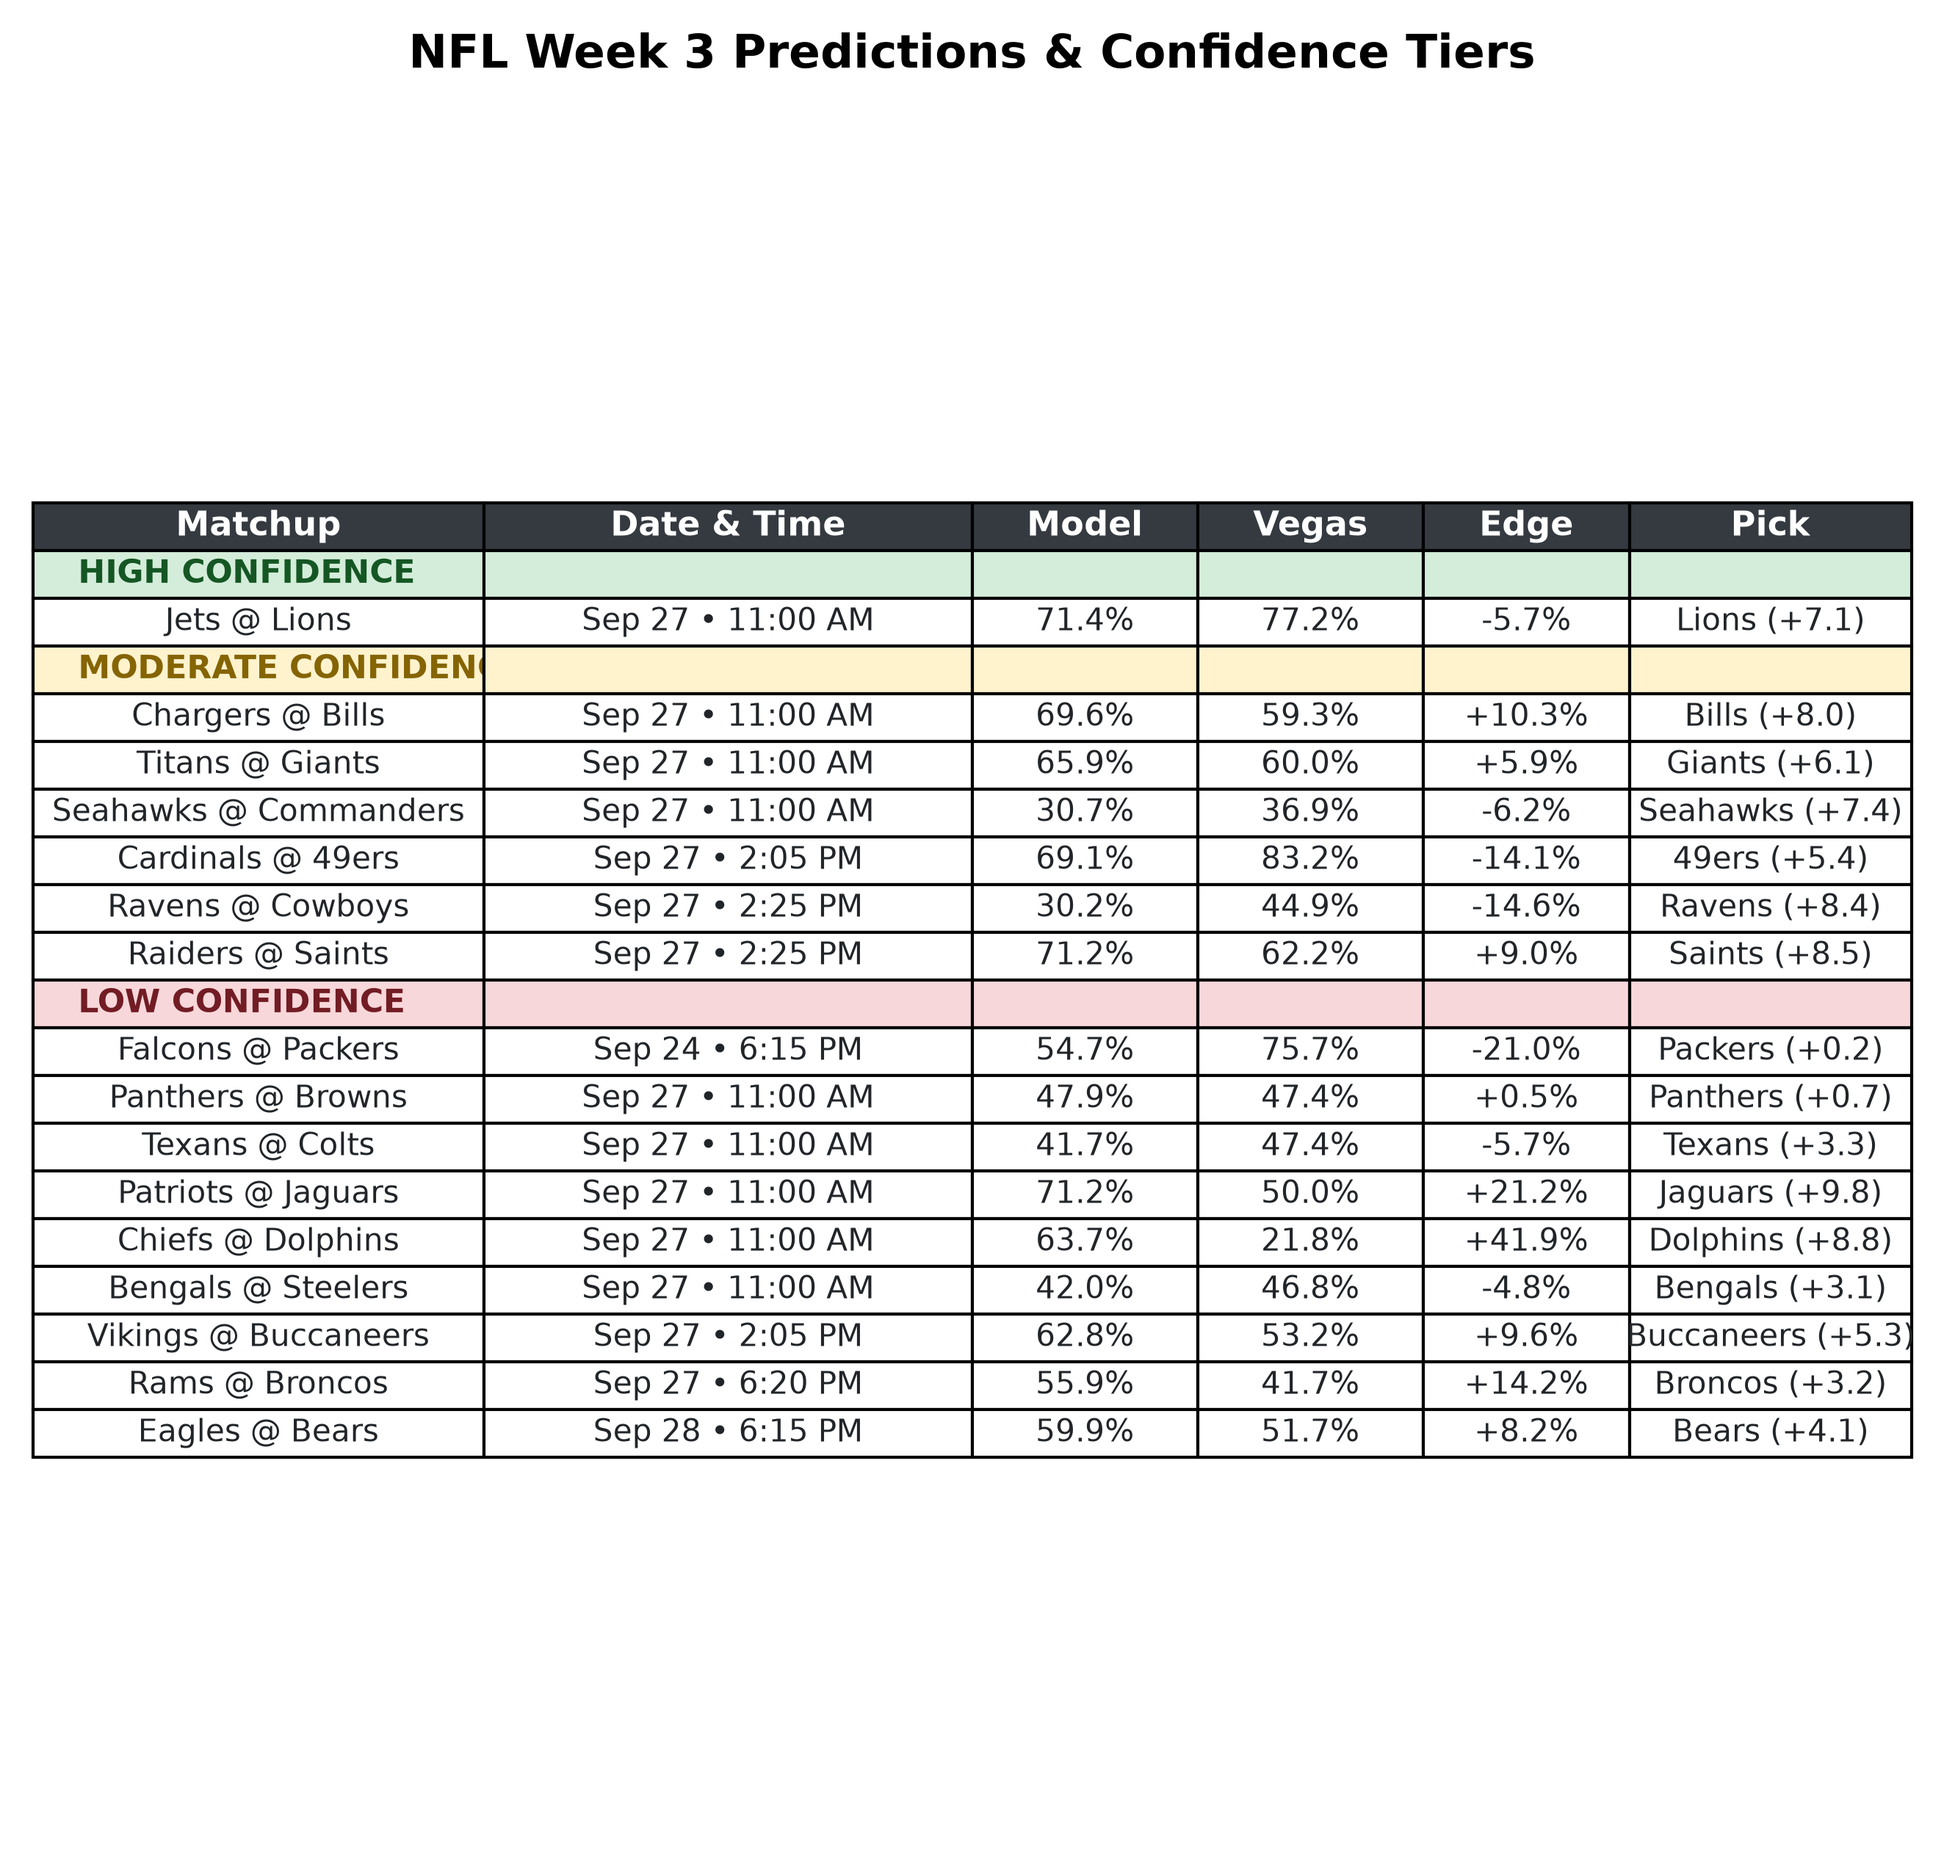
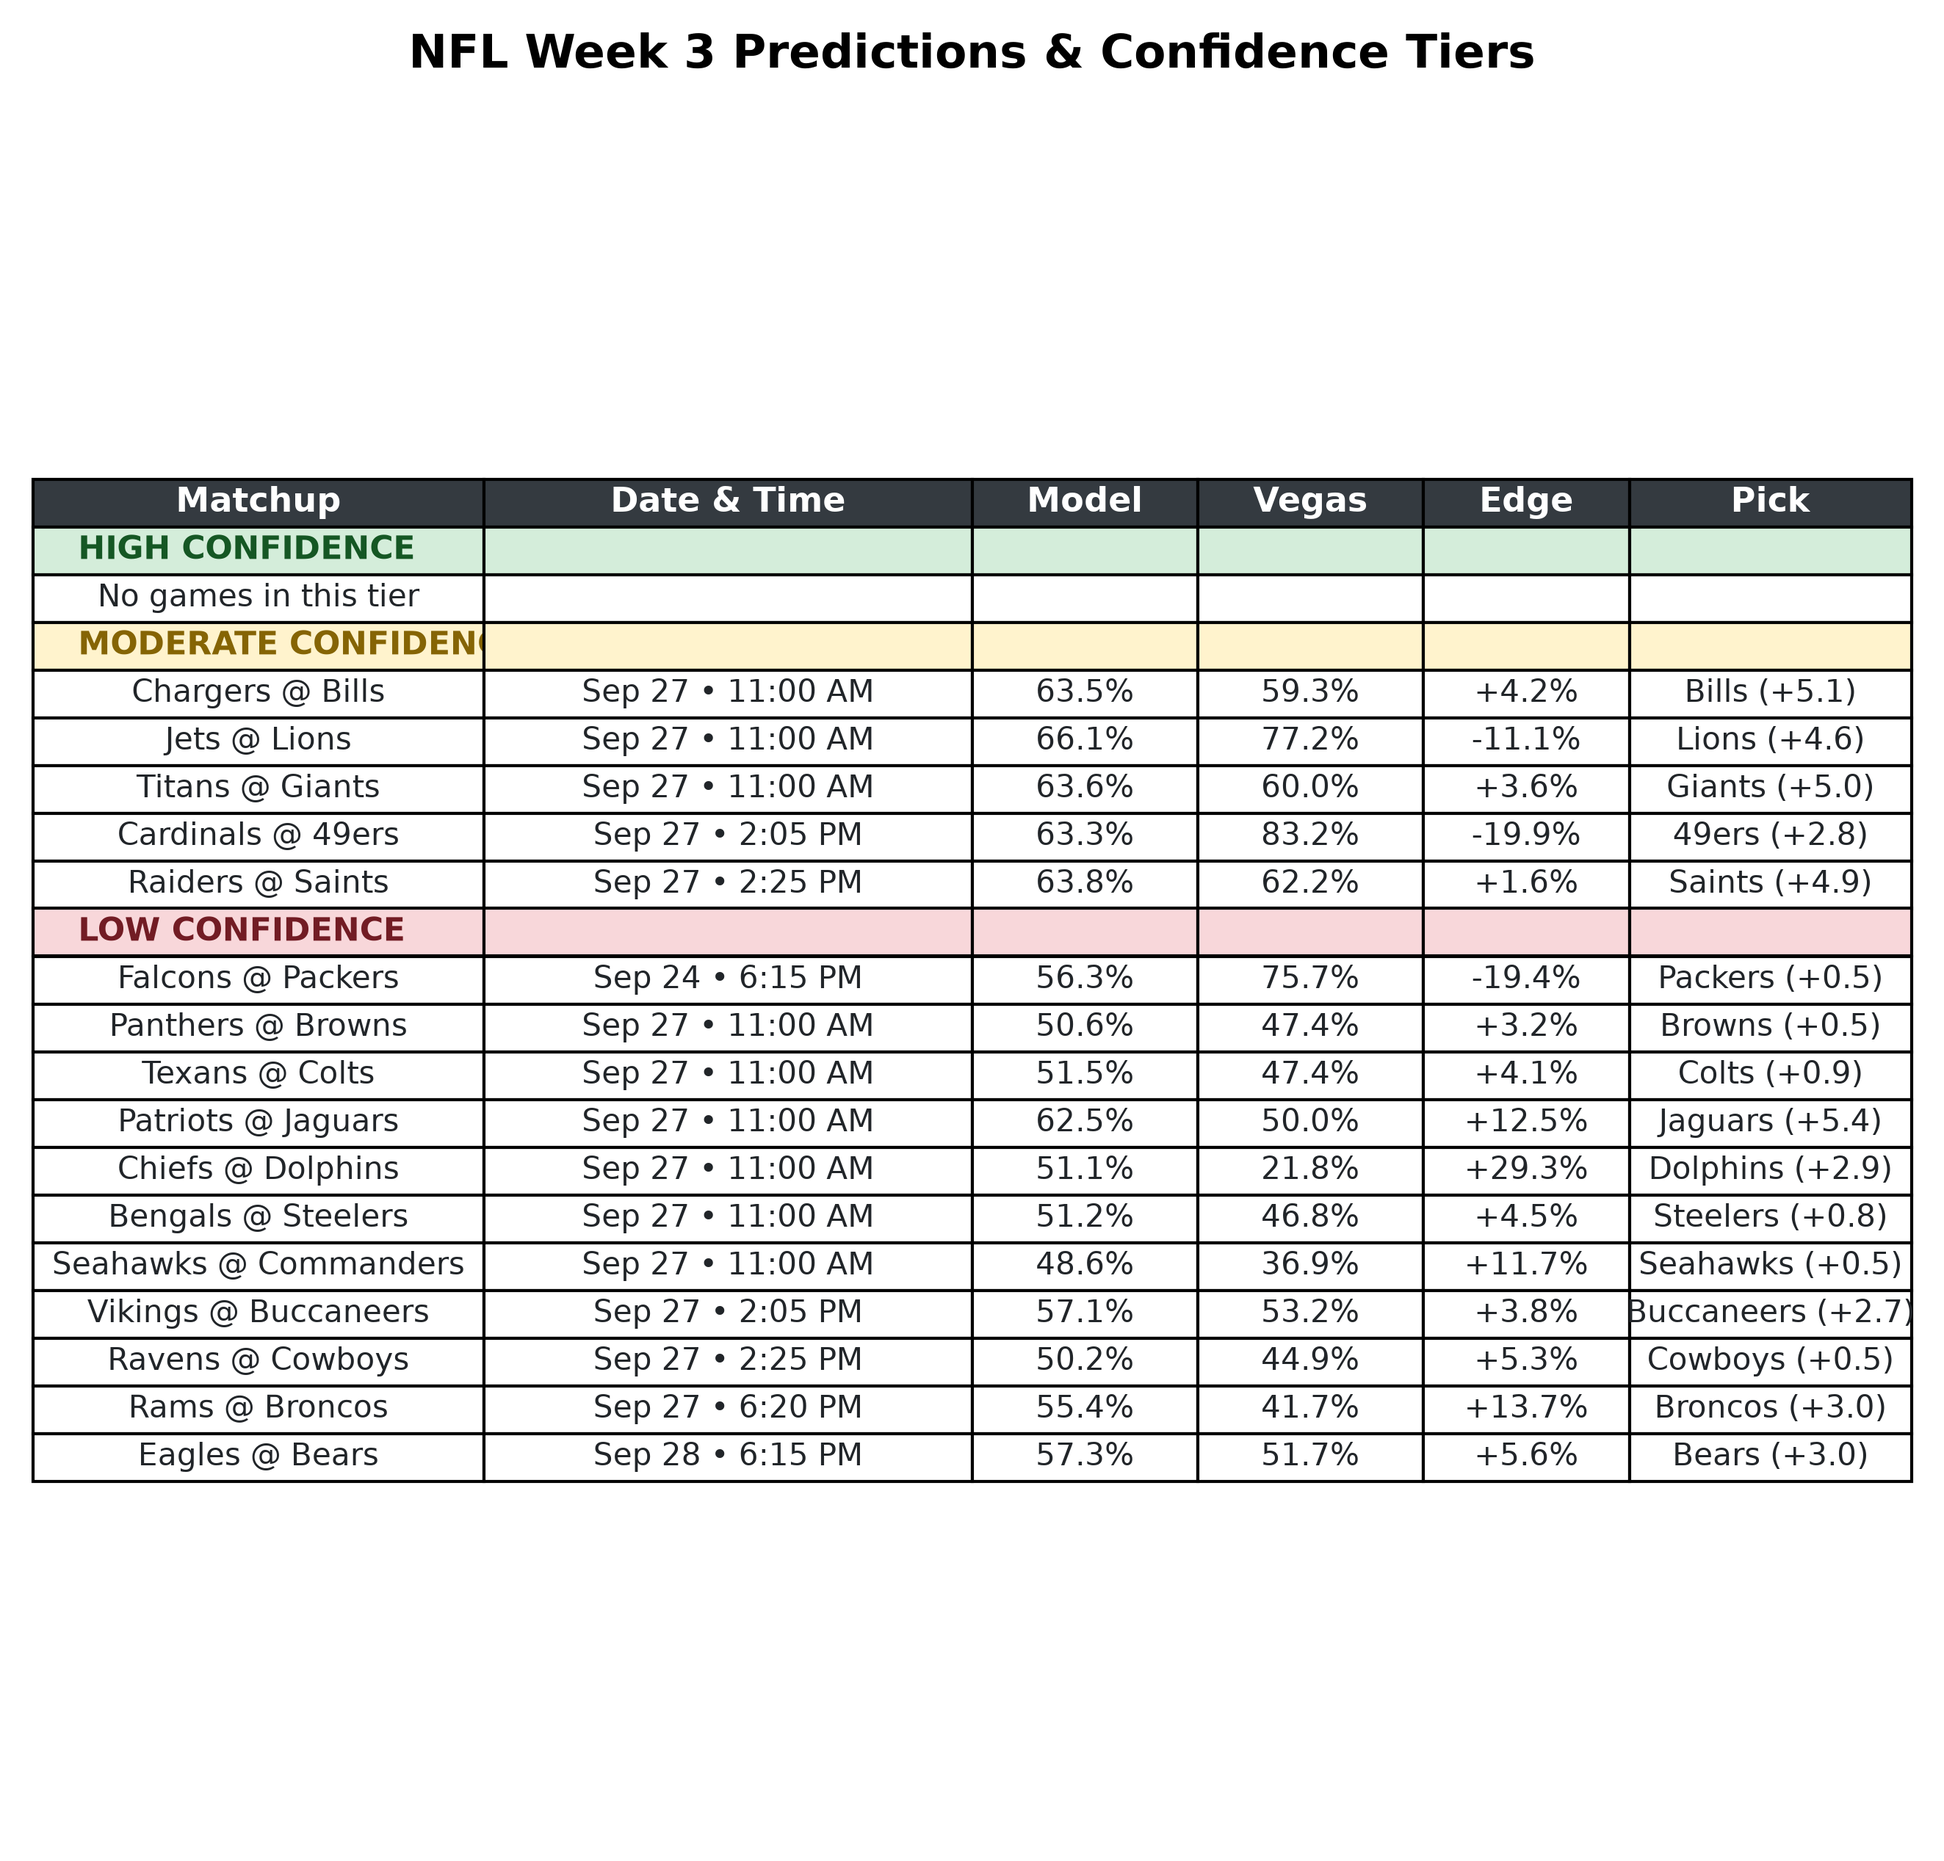
convert to utc timezone

Changed region(s): [[0.0, 0.2493, 0.9913, 0.8103]]

diff --git a/src/07_predict_weekly_slate.py b/src/07_predict_weekly_slate.py
@@ -1,4 +1,5 @@
 from datetime import datetime, timezone
+from zoneinfo import ZoneInfo
 import json
 import os
 import nflreadpy as nfl
@@ -21,6 +22,26 @@ TEAM_NAMES = {
 def get_full_name(abbr):
     return TEAM_NAMES.get(abbr, abbr)
 
+def format_gametime_utc(gameday_val, gametime_str):
+    if not gametime_str or gametime_str == 'TBD' or pd.isna(gametime_str) or pd.isna(gameday_val):
+        return 'TBD'
+    try:
+        # Extract clean YYYY-MM-DD regardless of whether gameday is Timestamp or string
+        date_str = pd.to_datetime(gameday_val).strftime('%Y-%m-%d')
+        time_str = str(gametime_str).strip()[:5]
+        
+        # Parse as Eastern Time
+        dt_str = f"{date_str} {time_str}"
+        et_zone = ZoneInfo("America/New_York")
+        local_dt = datetime.strptime(dt_str, "%Y-%m-%d %H:%M").replace(tzinfo=et_zone)
+        
+        # Convert to ISO UTC
+        return local_dt.astimezone(timezone.utc).strftime('%Y-%m-%dT%H:%M:%SZ')
+    except Exception:
+        return str(gametime_str)
+
+"""
+--- COMMENTED OUT: PREVIOUS MOUNTAIN TIME CONVERTER ---
 def format_gametime(gametime_str):
     if not gametime_str or gametime_str == 'TBD' or pd.isna(gametime_str):
         return 'TBD'
@@ -34,6 +55,7 @@ def format_gametime(gametime_str):
         return dt_temp.strftime('%I:%M %p').lstrip('0')
     except ValueError:
         return str(gametime_str)
+"""
 
 def get_team_latest_stats(df, team):
     team_games = df[(df['home_team'] == team) | (df['away_team'] == team)].copy()
@@ -142,8 +164,9 @@ if __name__ == '__main__':
         away_team_abbr = game['away_team']
         game_id = game['game_id']
 
-        gameday = str(game.get('gameday', 'TBD')).split('T')[0] if pd.notna(game.get('gameday')) else 'TBD'
-        formatted_time = format_gametime(game.get('gametime', 'TBD'))
+        gameday = pd.to_datetime(game['gameday']).strftime('%Y-%m-%d') if pd.notna(game.get('gameday')) else 'TBD'
+        formatted_time = format_gametime_utc(gameday, game.get('gametime', 'TBD'))
+        # formatted_time = format_gametime(game.get('gametime', 'TBD'))
 
         # Fetch Live Odds if available
         home_ml, away_ml = -110, -110 
@@ -239,7 +262,8 @@ if __name__ == '__main__':
             home = g['home_team']['name']
             p = g['prediction']
             pick_display = f"{p['pick_name']} (by {p['projected_margin']} pts)"
-            print(f'  [{g["gametime"]:<10}] {away:>11} @ {home:<11} | Model: {p["model_home_win_prob"]*100:>4.1f}% | Vegas: {p["vegas_home_implied_prob"]*100:>4.1f}% | Edge: {p["edge"]*100:>+5.1f}% | Pick: {pick_display:<25} | Tier: {p["confidence_tier"]:<8}')
+            # print(f'  [{g["gametime"]:<10}] {away:>11} @ {home:<11} | Model: {p["model_home_win_prob"]*100:>4.1f}% | Vegas: {p["vegas_home_implied_prob"]*100:>4.1f}% | Edge: {p["edge"]*100:>+5.1f}% | Pick: {pick_display:<25} | Tier: {p["confidence_tier"]:<8}')
+            print(f'  [{g["gametime"][-9:-1]:<10}] {away:>11} @ {home:<11} | Model: {p["model_home_win_prob"]*100:>4.1f}% | Vegas: {p["vegas_home_implied_prob"]*100:>4.1f}% | Edge: {p["edge"]*100:>+5.1f}% | Pick: {pick_display:<25} | Tier: {p["confidence_tier"]:<8}')
 
     print('\n========================================================================================================_')
 

diff --git a/src/render_prediction_table.py b/src/render_prediction_table.py
@@ -1,4 +1,5 @@
-from datetime import datetime
+from datetime import datetime, timezone
+from zoneinfo import ZoneInfo
 import json
 import os
 import re
@@ -60,21 +61,48 @@ high_tier = []
 mod_tier = []
 low_tier = []
 
-for gameday, games in games_by_date.items():
-  clean_date_str = str(gameday).split('T')[0].split(' ')[0]
-  try:
-    parsed_date = datetime.strptime(clean_date_str, '%Y-%m-%d')
-    formatted_date_str = parsed_date.strftime('%b %d')
-  except ValueError:
-    formatted_date_str = clean_date_str
+# Using America/Denver to represent Mountain Time (your timezone when exported)
+local_tz = ZoneInfo("America/Denver")
 
+# --- ALTERNATIVE TIMEZONES (Uncomment the one you need) ---
+# local_tz = ZoneInfo("America/New_York")      # Eastern Time (ET)
+# local_tz = ZoneInfo("America/Chicago")       # Central Time (CT)
+# local_tz = ZoneInfo("America/Los_Angeles")   # Pacific Time (PT)
+# local_tz = ZoneInfo("UTC")                   # Coordinated Universal Time (UTC)
+# local_tz = ZoneInfo("Europe/London")         # British Summer Time / Greenwich Mean Time (BST/GMT)
+# ----------------------------------------------------------
+
+for gameday, games in games_by_date.items():
   for g in games:
     away_full = g['away_team']['name']
     home_full = g['home_team']['name']
     matchup_str = f'{away_full} @ {home_full}'
     
     raw_time = g['gametime']
-    datetime_display = f'{formatted_date_str} • {raw_time}'
+    
+    # Check if raw_time is a valid ISO 8601 UTC string (ends with 'Z')
+    if raw_time and raw_time.endswith('Z'):
+        try:
+            # Parse the UTC time
+            dt_utc = datetime.strptime(raw_time, '%Y-%m-%dT%H:%M:%SZ').replace(tzinfo=timezone.utc)
+            # Convert to local Mountain Time
+            dt_local = dt_utc.astimezone(local_tz)
+            
+            # Format date and time for display
+            formatted_date_str = dt_local.strftime('%b %d')
+            formatted_time_str = dt_local.strftime('%I:%M %p').lstrip('0')
+            datetime_display = f'{formatted_date_str} • {formatted_time_str}'
+        except ValueError:
+            datetime_display = f'{gameday} • {raw_time}'
+    else:
+        # Fallback if the time isn't in the expected UTC format
+        clean_date_str = str(gameday).split('T')[0].split(' ')[0]
+        try:
+            parsed_date = datetime.strptime(clean_date_str, '%Y-%m-%d')
+            formatted_date_str = parsed_date.strftime('%b %d')
+        except ValueError:
+            formatted_date_str = clean_date_str
+        datetime_display = f'{formatted_date_str} • {raw_time}'
 
     p = g['prediction']
     model_prob = f"{p['model_home_win_prob']*100:.1f}%"
@@ -177,4 +205,4 @@ output_image_name = f'nfl_predictions_week_{week_num}.png'
 output_image_path = os.path.join(PREDICTIONS_DIR, output_image_name)
 plt.savefig(output_image_path, dpi=300, bbox_inches='tight', pad_inches=0.15)
 
-print(f'✅ Successfully generated and saved table image to: {os.path.abspath(output_image_path)}')
+print(f'Successfully generated and saved table image to: {os.path.abspath(output_image_path)}')
